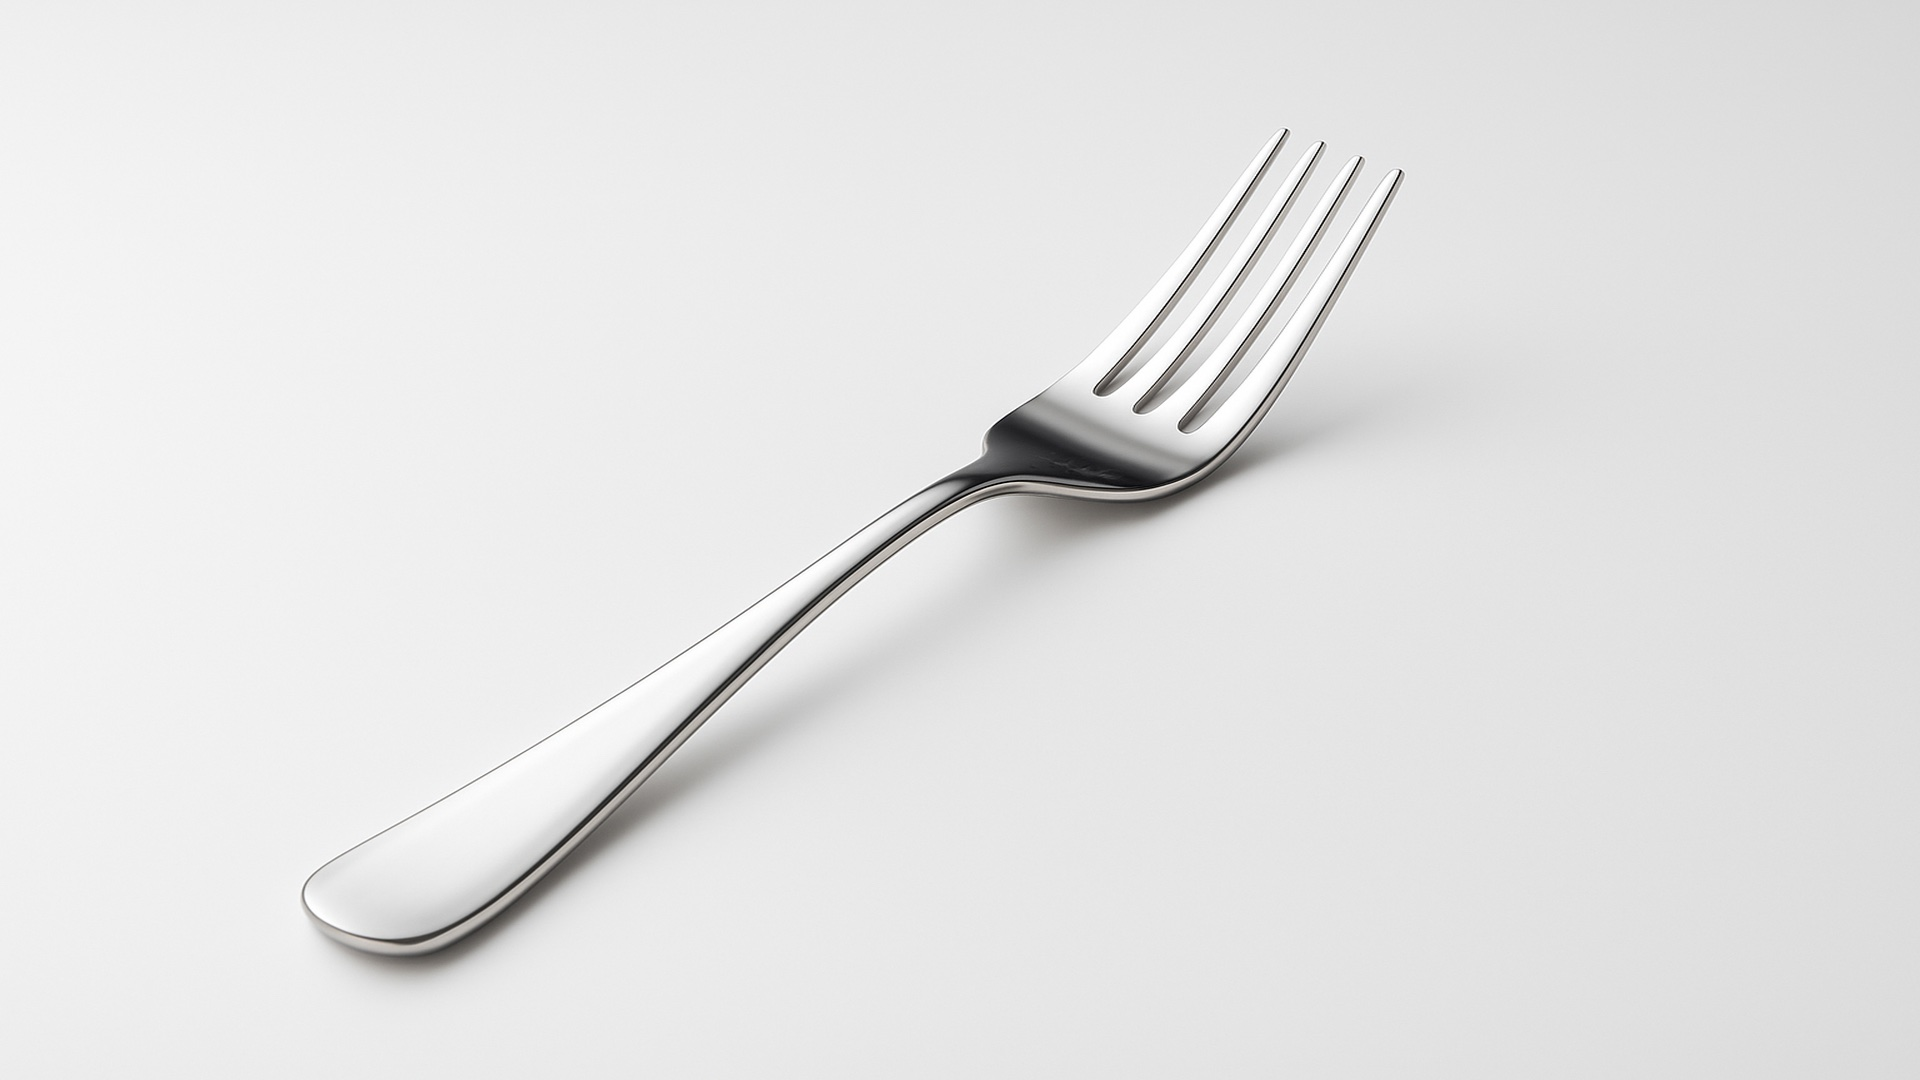
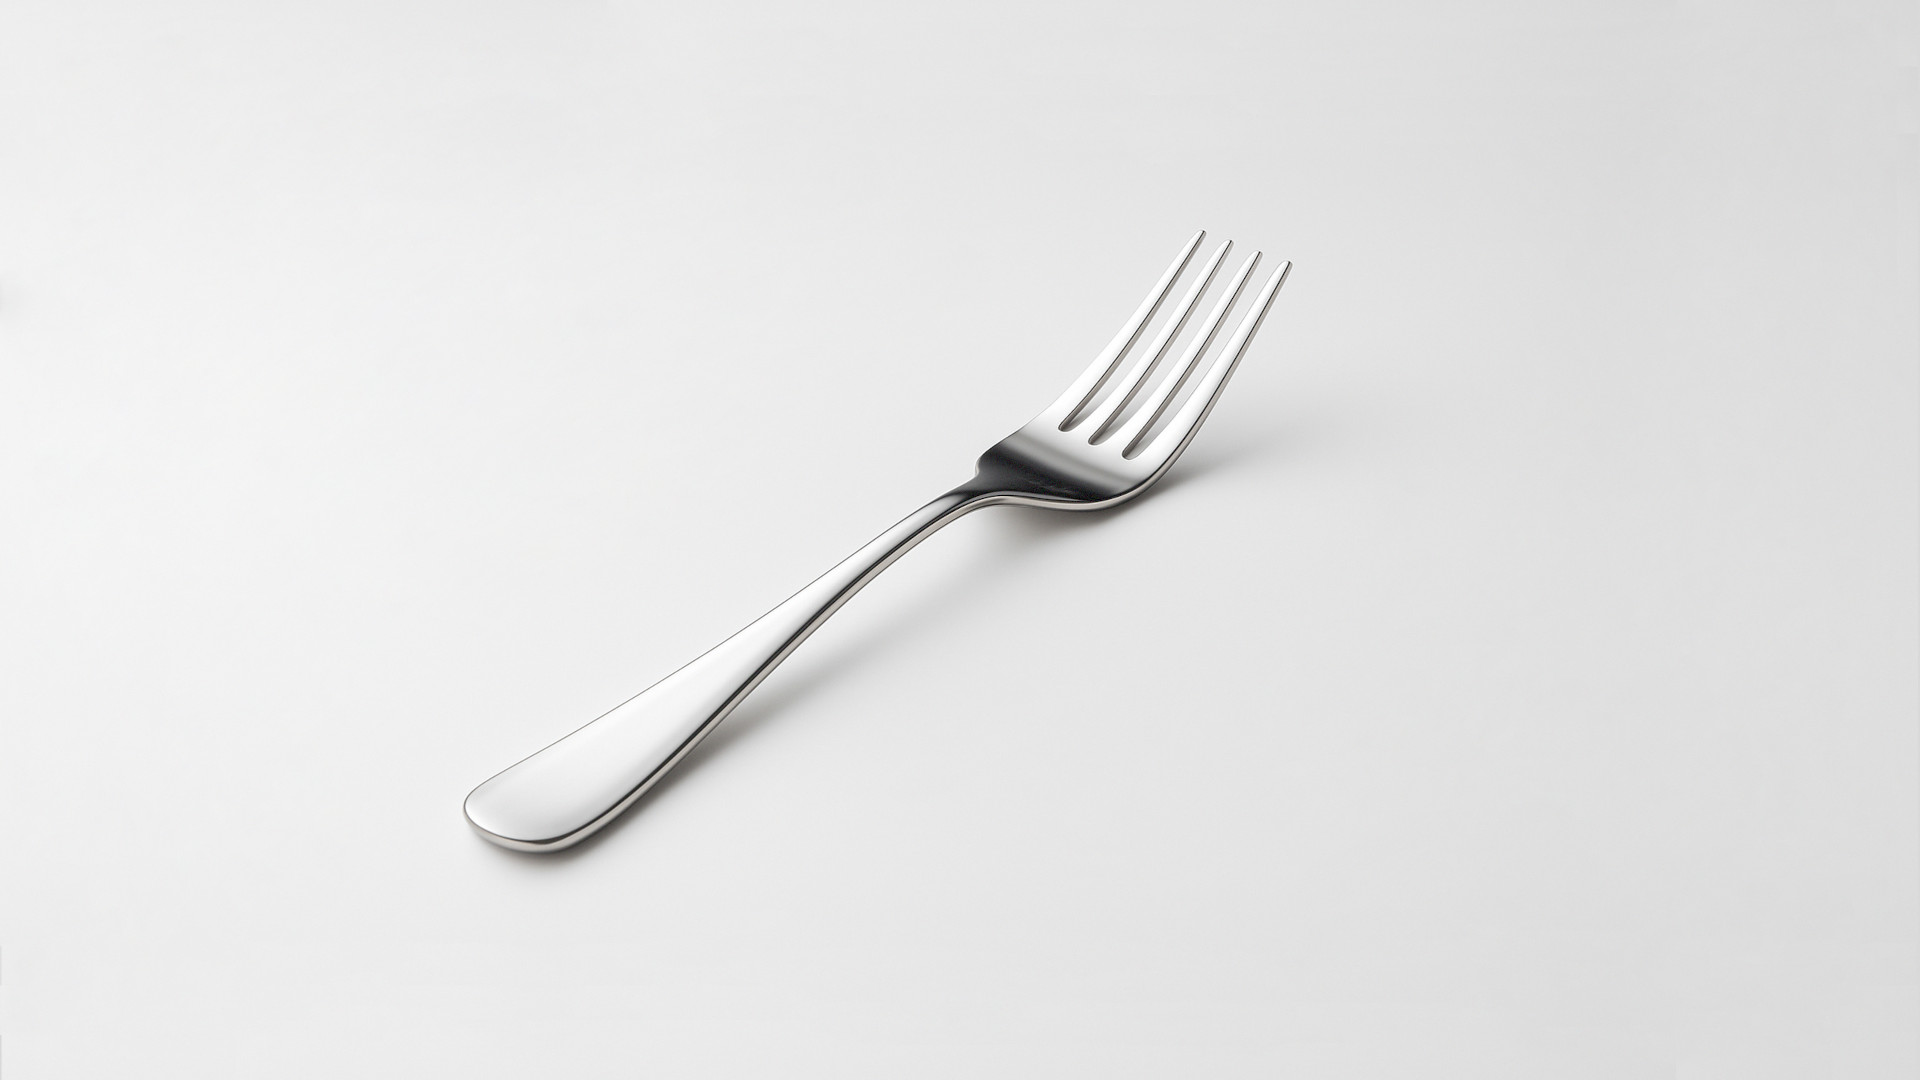
chore: adjust and optimize background image

Changed region(s): [[0.1562, 0.1222, 0.75, 0.9167], [0.25, 0.7028, 0.2812, 0.7333], [0.2188, 0.7333, 0.25, 0.7639]]

diff --git a/README.md b/README.md
@@ -1,19 +1,18 @@
 # code.nanotaboada.com.ar
 
+## About
+
+Hey there, I’m  [Nano Taboada](http://nanotaboada.com.ar). This repo holds the code for my personal landing page — a humble little corner of the internet showcasing my software development projects. Nothing fancy, just handcrafted code and a sprinkle of passion.
+
 ## Manifesto
 
 > "Nobody should start to undertake a large project. You start with a small _trivial_ project, and you should never expect it to get large. If you do, you'll just overdesign and generally think it is more important than it likely is at that stage. Or worse, you might be scared away by the sheer size of the work you envision. So start small, and think about the details. Don't think about some big picture and fancy design. If it doesn't solve some fairly immediate need, it's almost certainly over-designed. And don't expect people to jump in and help you. That's not how these things work. You need to get something half-way _useful_ first, and then others will say "hey, that _almost_ works for me", and they'll get involved in the project." — [Linus Torvalds](https://web.archive.org/web/20050404020308/http://www.linuxtimes.net/modules.php?name=News&file=article&sid=145)
 
-## About
-
-I'm [Nano Taboada](http://nanotaboada.com.ar) and this is the repo of the landing page for my Software Development projects.
-
 ## Credits
 
-- All content has been created using [Visual Studio Code](https://code.visualstudio.com/).
-- Hosting is generously provided by [GitHub Pages](https://pages.github.com/).
-- The fork background image has been created by OpenAI [GPT-4o](https://openai.com/index/hello-gpt-4o/).
+- Built with [Visual Studio Code](https://code.visualstudio.com/), hosted on [GitHub Pages](https://pages.github.com/).
+- The background image? Oh yeah — that’s a fork. A literal fork. Created with [DALL·E 3](https://openai.com/index/dall-e-3/) and adjusted with [GIMP](https://www.gimp.org/).
 
 ## Terms
 
-All trademarks, registered trademarks, service marks, product names, company names, or logos mentioned on this repository are the property of their respective owners. All usage of such terms herein is for identification purposes only and constitutes neither an endorsement nor a recommendation of those items. Furthermore, the use of such terms is intended to be for educational and informational purposes only.
+All trademarks, registered trademarks, service marks, product names, company names, and logos mentioned here belong to their respective owners. This repo is just for fun, learning, and sharing — no endorsements implied.
